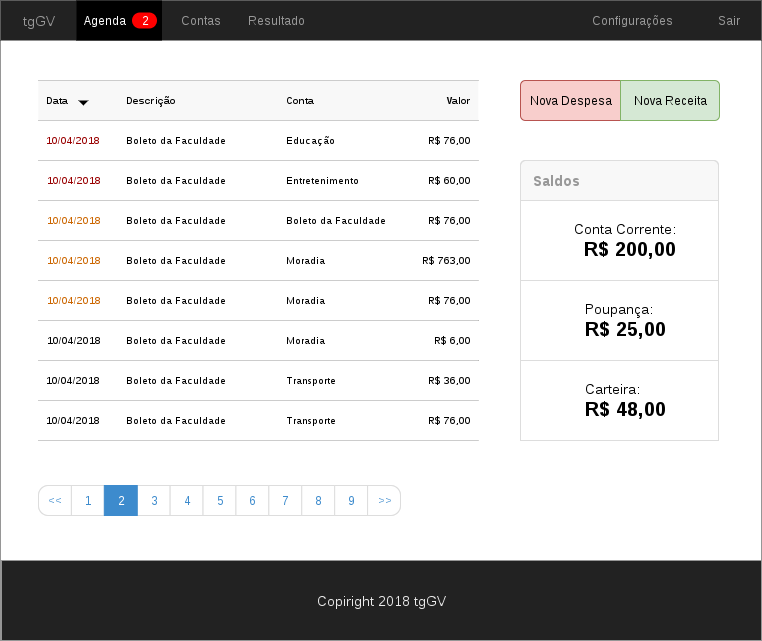
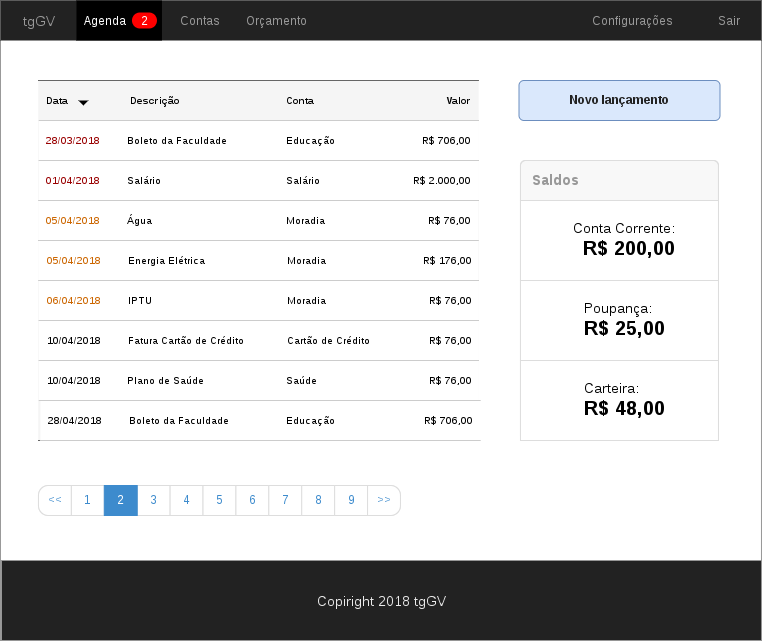
Deployed 238f6dc with MkDocs version: 0.17.2

diff --git a/doc-desenvolvimento/2-modelagem/index.html b/doc-desenvolvimento/2-modelagem/index.html
@@ -401,6 +401,33 @@
     <ul class="md-nav__list" data-md-scrollfix>
       
         <li class="md-nav__item">
+  <a href="#banco_de_dados" title="Banco de dados" class="md-nav__link">
+    Banco de dados
+  </a>
+  
+    <nav class="md-nav">
+      <ul class="md-nav__list">
+        
+          <li class="md-nav__item">
+  <a href="#modelo_conceitual" title="Modelo conceitual" class="md-nav__link">
+    Modelo conceitual
+  </a>
+  
+</li>
+        
+          <li class="md-nav__item">
+  <a href="#modelo_logico" title="Modelo lógico" class="md-nav__link">
+    Modelo lógico
+  </a>
+  
+</li>
+        
+      </ul>
+    </nav>
+  
+</li>
+      
+        <li class="md-nav__item">
   <a href="#processo" title="Processo" class="md-nav__link">
     Processo
   </a>
@@ -431,13 +458,6 @@
         
       </ul>
     </nav>
-  
-</li>
-      
-        <li class="md-nav__item">
-  <a href="#banco_de_dados" title="Banco de dados" class="md-nav__link">
-    Banco de dados
-  </a>
   
 </li>
       
@@ -574,6 +594,33 @@
     <ul class="md-nav__list" data-md-scrollfix>
       
         <li class="md-nav__item">
+  <a href="#banco_de_dados" title="Banco de dados" class="md-nav__link">
+    Banco de dados
+  </a>
+  
+    <nav class="md-nav">
+      <ul class="md-nav__list">
+        
+          <li class="md-nav__item">
+  <a href="#modelo_conceitual" title="Modelo conceitual" class="md-nav__link">
+    Modelo conceitual
+  </a>
+  
+</li>
+        
+          <li class="md-nav__item">
+  <a href="#modelo_logico" title="Modelo lógico" class="md-nav__link">
+    Modelo lógico
+  </a>
+  
+</li>
+        
+      </ul>
+    </nav>
+  
+</li>
+      
+        <li class="md-nav__item">
   <a href="#processo" title="Processo" class="md-nav__link">
     Processo
   </a>
@@ -607,13 +654,6 @@
   
 </li>
       
-        <li class="md-nav__item">
-  <a href="#banco_de_dados" title="Banco de dados" class="md-nav__link">
-    Banco de dados
-  </a>
-  
-</li>
-      
       
       
       
@@ -634,13 +674,30 @@
                 
                 
                 <h1 id="modelagem">Modelagem<a class="headerlink" href="#modelagem" title="Permanent link">&para;</a></h1>
+<p><strong>Atualizado em:</strong> 30/03/2018</p>
+<h2 id="banco_de_dados">Banco de dados<a class="headerlink" href="#banco_de_dados" title="Permanent link">&para;</a></h2>
+<h3 id="modelo_conceitual">Modelo conceitual<a class="headerlink" href="#modelo_conceitual" title="Permanent link">&para;</a></h3>
+<p><img alt="DER - Diagrama Entidade Relacionamento" src="../diagramas/der-1.png" /></p>
+<h3 id="modelo_logico">Modelo lógico<a class="headerlink" href="#modelo_logico" title="Permanent link">&para;</a></h3>
+<div class="codehilite"><pre><span></span>User (*id, name, email, password, type, remember_token, created_at, updated_at)
+
+Category (* id, category, created_at, updated_at)
+
+Account (* id, account, type, balance, created_at, updated_at, + user_id, + category_id)
+    user_id reference User
+    category_id reference Category
+
+TrasactionLog (* id, description, value, created_at, updated_at, +source_account_id, +destination_account_id)
+    source_account_id reference Account
+    destination_account_id reference Account
+</pre></div>
+
 <h2 id="processo">Processo<a class="headerlink" href="#processo" title="Permanent link">&para;</a></h2>
 <h2 id="caso_de_uso">Caso de uso<a class="headerlink" href="#caso_de_uso" title="Permanent link">&para;</a></h2>
 <h3 id="caso_de_uso_-_1">Caso de uso - 1<a class="headerlink" href="#caso_de_uso_-_1" title="Permanent link">&para;</a></h3>
 <p><img alt="Utilização do serviço" src="../diagramas/caso-de-uso-1.png" /></p>
 <h3 id="caso_de_uso_-_2">Caso de uso - 2<a class="headerlink" href="#caso_de_uso_-_2" title="Permanent link">&para;</a></h3>
 <p><img alt="Administração do serviço" src="../diagramas/caso-de-uso-2.png" /></p>
-<h2 id="banco_de_dados">Banco de dados<a class="headerlink" href="#banco_de_dados" title="Permanent link">&para;</a></h2>
                 
                   
                 

diff --git a/doc-desenvolvimento/3-prototipacao/index.html b/doc-desenvolvimento/3-prototipacao/index.html
@@ -419,6 +419,13 @@
   
 </li>
       
+        <li class="md-nav__item">
+  <a href="#tela_2_-_contas" title="Tela 2 - Contas" class="md-nav__link">
+    Tela 2 - Contas
+  </a>
+  
+</li>
+      
       
       
       
@@ -546,6 +553,13 @@
   
 </li>
       
+        <li class="md-nav__item">
+  <a href="#tela_2_-_contas" title="Tela 2 - Contas" class="md-nav__link">
+    Tela 2 - Contas
+  </a>
+  
+</li>
+      
       
       
       
@@ -566,8 +580,11 @@
                 
                 
                 <h1 id="prototipacao">Prototipação<a class="headerlink" href="#prototipacao" title="Permanent link">&para;</a></h1>
+<p><strong>Atualizado em:</strong> 30/03/2018</p>
 <h2 id="tela_1_-_agenda">Tela 1 - Agenda<a class="headerlink" href="#tela_1_-_agenda" title="Permanent link">&para;</a></h2>
 <p><img alt="Tela 1" src="../prototipos/prototipo-1.png" /></p>
+<h2 id="tela_2_-_contas">Tela 2 - Contas<a class="headerlink" href="#tela_2_-_contas" title="Permanent link">&para;</a></h2>
+<p><img alt="Tela 2" src="../prototipos/prototipo-2.png" /></p>
                 
                   
                 

diff --git a/licence/index.html b/licence/index.html
@@ -518,10 +518,7 @@
                 
                 <h1 id="licenca">Licença<a class="headerlink" href="#licenca" title="Permanent link">&para;</a></h1>
 <p>O projeto que estou desenvolvendo pode ser usado, copiado, modificado e redistribuído pois está licenciado sob <a href="https://github.com/getuliovinicius/trabalho.gradauacao/blob/master/LICENSE">GNU GENERAL PUBLIC LICENSE - Version 3, 29 June 2007</a>.</p>
-<p>Códigos de terceiros utilizados na construção desta aplicação, tais como frameworks e bibliotecas, estão sujeitos as suas respectivas licenças:</p>
-<ul>
-<li>Laravel - The Laravel framework is open-sourced software licensed under the <a href="https://opensource.org/licenses/MIT">MIT license</a></li>
-</ul>
+<p><a href="../doc-desenvolvimento/4-tecnologias/">Códigos de terceiros</a> utilizados na construção desta aplicação, tais como <em>frameworks</em> e bibliotecas, estão sujeitos as suas respectivas licenças.</p>
                 
                   
                 

diff --git a/doc-desenvolvimento/4-tecnologias/index.html b/doc-desenvolvimento/4-tecnologias/index.html
@@ -521,20 +521,23 @@
                 
                 
                 <h1 id="tecnologias">Tecnologias<a class="headerlink" href="#tecnologias" title="Permanent link">&para;</a></h1>
+<p><strong>Atualizado em:</strong> 30/03/2018</p>
 <p>Pilha de software utilizada para desenvolvimento da aplicação.</p>
 <table>
 <thead>
 <tr>
-<th align="left">Tecnologia</th>
+<th align="left">Software</th>
 <th align="left">Descrição</th>
-<th align="left">Versão</th>
+<th align="center">Versão</th>
+<th align="left">Licença</th>
 </tr>
 </thead>
 <tbody>
 <tr>
 <td align="left">Laravel</td>
-<td align="left"><em>Framework</em> PHP</td>
-<td align="left">5.6</td>
+<td align="left">Framework PHP</td>
+<td align="center">5.6</td>
+<td align="left"><em>The Laravel framework is open-sourced software licensed under the <a href="https://opensource.org/licenses/MIT">MIT license</a></em></td>
 </tr>
 </tbody>
 </table>

diff --git a/doc-desenvolvimento/1-requisitos/index.html b/doc-desenvolvimento/1-requisitos/index.html
@@ -608,7 +608,7 @@
                 
                 
                 <h1 id="documento_de_requisitos">Documento de Requisitos<a class="headerlink" href="#documento_de_requisitos" title="Permanent link">&para;</a></h1>
-<p><strong>Atualizado em:</strong> 27/02/2018</p>
+<p><strong>Atualizado em:</strong> 30/03/2018</p>
 <h2 id="requisitos_do_usuario_cliente">Requisitos do usuário (cliente)<a class="headerlink" href="#requisitos_do_usuario_cliente" title="Permanent link">&para;</a></h2>
 <ul class="task-list">
 <li class="task-list-item"><label class="task-list-control"><input type="checkbox" disabled/><span class="task-list-indicator"></span></label> O usuário pode criar uma conta para gerenciar seu orçamento pessoal.</li>
